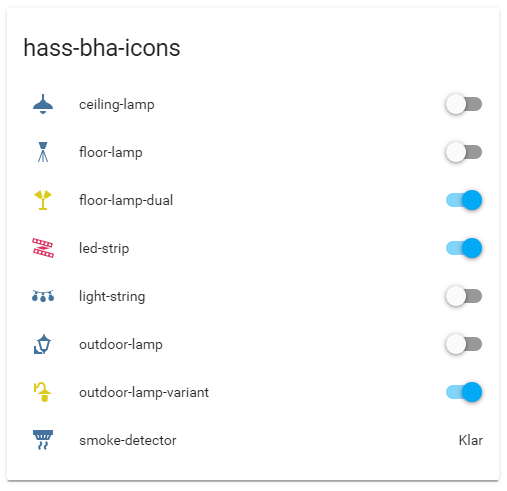
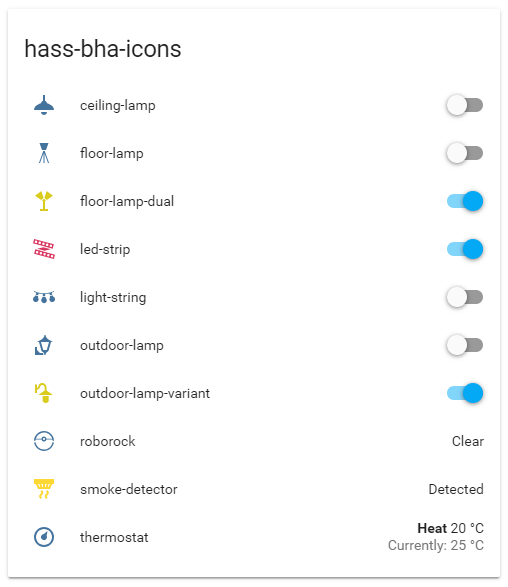
Minified svg's and added roborock and thermostat

diff --git a/hass-bha-icons.html b/hass-bha-icons.html
@@ -1,10 +1,12 @@
 <ha-iconset-svg name="bha" size="24"><svg><defs>
-<g id="ceiling-lamp"><path d="M 11 2 L 11 7.6738281 A 3 3 0 0 0 10.5 7.9023438 A 3 3 0 0 0 9.0097656 10.326172 A 10 6.9999995 0 0 0 7 10.9375 A 10 6.9999995 0 0 0 2 17 L 12 17 L 22 17 A 10 6.9999995 0 0 0 17 10.9375 A 10 6.9999995 0 0 0 14.992188 10.328125 A 3 3 0 0 0 13.5 7.9023438 A 3 3 0 0 0 13 7.6757812 L 13 2 L 11 2 z M 9 19 A 3 2.9999998 0 0 0 10.5 21.597656 A 3 2.9999998 0 0 0 13.5 21.597656 A 3 2.9999998 0 0 0 15 19 L 12 19 L 9 19 z " /></g>
-<g id="floor-lamp"><path d="M 7.5 2 L 10 9 L 14 9 L 16.5 2 L 7.5 2 z M 11.289062 10 L 6.9199219 22 L 7.984375 22 L 11.5 12.34375 L 11.5 22 L 12.5 22 L 12.5 12.349609 L 16.011719 22 L 17.076172 22 L 12.708984 10 L 11.289062 10 z " /></g>
-<g id="floor-lamp-dual"><path d="M 9.3867188 2 L 3 6.8125 L 9.2070312 10.898438 L 11.601562 9.09375 L 9.3867188 2 z M 14.613281 2 L 12.398438 9.0917969 L 14.792969 10.898438 L 21 6.8125 L 14.613281 2 z M 11.726562 10.054688 L 10.167969 11.244141 L 11 12.199219 L 11 20 L 8 20 L 8 22 L 16 22 L 16 20 L 13 20 L 13 12.300781 L 13.851562 11.261719 L 12.265625 10.064453 L 11.726562 10.054688 z " /></g>
-<g id="led-strip"><path d="M 2.157588,2 0.99999996,6.3457031 20.690651,11.652344 21.848239,7.3046875 Z M 3.9677761,3.5703125 A 1.2430476,1.25 0 0 1 4.3018452,3.6132815 1.2430476,1.25 0 0 1 5.1797475,5.1425784 1.2430476,1.25 0 0 1 3.6570142,6.0273441 1.2430476,1.25 0 0 1 2.7791118,4.4960941 1.2430476,1.25 0 0 1 3.9677761,3.5703125 Z M 7.6910922,4.5722656 A 1.2430476,1.25 0 0 1 8.023219,4.6152346 1.2430476,1.25 0 0 1 8.9030636,6.1464846 1.2430476,1.25 0 0 1 7.3803303,7.0292971 1.2430476,1.25 0 0 1 6.5004856,5.5 1.2430476,1.25 0 0 1 7.6910922,4.5722656 Z m 3.7213738,1.0039063 a 1.2430476,1.25 0 0 1 0.332126,0.042969 1.2430476,1.25 0 0 1 0.879845,1.5292969 1.2430476,1.25 0 0 1 -1.522733,0.8847656 1.2430476,1.25 0 0 1 -0.877903,-1.53125 1.2430476,1.25 0 0 1 1.188665,-0.9257815 z m 3.721373,1.0019531 a 1.2430476,1.25 0 0 1 0.33407,0.042969 1.2430476,1.25 0 0 1 0.877902,1.53125 A 1.2430476,1.25 0 0 1 14.82502,9.0351562 1.2430476,1.25 0 0 1 13.945176,7.5058594 1.2430476,1.25 0 0 1 15.133839,6.578125 Z m 3.723317,1.0039062 A 1.2430476,1.25 0 0 1 19.189282,7.625 1.2430476,1.25 0 0 1 20.069127,9.1542969 1.2430476,1.25 0 0 1 18.546394,10.039062 1.2430476,1.25 0 0 1 17.666549,8.5078125 1.2430476,1.25 0 0 1 18.857156,7.5820312 Z m -7.460228,2.5664068 -6.2404876,1.697265 7.4446896,2.005859 6.24243,-1.697265 z M 3.3093493,12.347656 2.1517613,16.693359 21.842412,22 23,17.654297 Z m 1.8101882,1.570313 a 1.2430476,1.25 0 0 1 0.3340689,0.04297 1.2430476,1.25 0 0 1 0.8779025,1.53125 A 1.2430476,1.25 0 0 1 4.8107178,16.375 1.2430476,1.25 0 0 1 3.9308731,14.84375 1.2430476,1.25 0 0 1 5.1195375,13.917969 Z m 3.7233161,1.003906 a 1.2430476,1.25 0 0 1 0.3321268,0.04102 1.2430476,1.25 0 0 1 0.8798436,1.53125 A 1.2430476,1.25 0 0 1 8.5320917,17.37891 1.2430476,1.25 0 0 1 7.652247,15.84766 1.2430476,1.25 0 0 1 8.8428536,14.921879 Z m 3.7213734,1.001953 a 1.2430476,1.25 0 0 1 0.334069,0.04297 1.2430476,1.25 0 0 1 0.877903,1.53125 1.2430476,1.25 0 0 1 -1.522734,0.882812 1.2430476,1.25 0 0 1 -0.877903,-1.53125 1.2430476,1.25 0 0 1 1.188665,-0.925781 z m 3.723316,1.001953 a 1.2430476,1.25 0 0 1 0.332127,0.04297 1.2430476,1.25 0 0 1 0.879844,1.53125 1.2430476,1.25 0 0 1 -1.522733,0.884766 1.2430476,1.25 0 0 1 -0.879844,-1.53125 1.2430476,1.25 0 0 1 1.190606,-0.927735 z m 3.721374,1.003907 a 1.2430476,1.25 0 0 1 0.332126,0.04297 1.2430476,1.25 0 0 1 0.879845,1.53125 1.2430476,1.25 0 0 1 -1.522733,0.882813 1.2430476,1.25 0 0 1 -0.877902,-1.53125 1.2430476,1.25 0 0 1 1.188664,-0.925781 z" /></g>
-<g id="light-string"><path d="m 1.9999999,5.8465626 v 0.8 C 2.7578662,7.0304569 3.509178,7.4328657 4.2968753,7.7510937 L 3.7792968,9.6827347 6.0976561,10.303827 6.6054687,8.4073437 c 1.1775185,0.274942 2.545886,0.499024 4.1953123,0.570312 v 1.9746093 h 2.398438 V 8.9776557 c 1.649426,-0.07129 3.017794,-0.29537 4.195312,-0.570312 L 17.902344,10.303827 20.220703,9.6827347 19.703125,7.7510936 C 20.421108,7.475841 21.264842,7.0521575 22,6.6465626 v -0.7 c 0,0 -0.889349,0.4944689 -2.498047,1.109 -1.608698,0.614531 -4.07651,1.234 -7.501953,1.234 -3.4254429,0 -5.8932552,-0.619469 -7.5019532,-1.234 -1.608698,-0.6145311 -2.4980469,-1.209 -2.4980469,-1.209 z M 20.533203,10.440546 c -0.03561,-1.58e-4 -0.07108,0.0044 -0.105469,0.01367 l -2.318359,0.623047 c -0.212729,0.05704 -0.339326,0.275311 -0.283203,0.488283 l 0.234375,0.873047 c -0.56785,0.678076 -0.812802,1.609735 -0.566406,2.529297 0.399979,1.494136 1.935679,2.380924 3.429687,1.980468 1.494136,-0.399978 2.380925,-1.935679 1.980469,-3.429687 -0.246396,-0.91956 -0.923106,-1.604892 -1.753906,-1.908203 l -0.234375,-0.873047 c -0.04636,-0.173763 -0.20298,-0.295225 -0.382813,-0.296875 z m -17.0800781,0.002 c -0.1748985,0.0065 -0.3252388,0.126015 -0.3710938,0.294922 l -0.2324218,0.873047 c -0.83081,0.303306 -1.5075103,0.988641 -1.7539063,1.908203 -0.40045573,1.494008 0.4863327,3.029709 1.9804688,3.429687 1.4933753,0.399208 3.0277278,-0.487306 3.4277343,-1.980468 0.246395,-0.919561 0.00338,-1.851222 -0.5644531,-2.529297 L 6.173828,11.565546 C 6.22995,11.352575 6.1033525,11.134303 5.8906249,11.077265 L 3.5722655,10.454218 c -0.038901,-0.0099 -0.079064,-0.01381 -0.1191406,-0.01172 z m 7.3476561,1.3105 c -0.221219,-2.16e-4 -0.400606,0.179172 -0.40039,0.400391 v 0.904297 c -0.7240004,0.508 -1.2011723,1.342921 -1.2011723,2.294921 -4.321e-4,1.547008 1.2537733,2.801214 2.8007813,2.800782 1.547008,4.32e-4 2.801213,-1.253774 2.800781,-2.800782 0,-0.952 -0.477172,-1.786921 -1.201172,-2.294921 v -0.904297 c 2.16e-4,-0.221219 -0.179171,-0.400607 -0.40039,-0.400391 z" /></g>
-<g id="outdoor-lamp"><path d="M 12.5,2 12,4 10,6.3046875 5,9 h 2 l 2.5,9 2.5,2 0.5,2 h 1 L 14,20 16.5,18 19,9 h 2 L 16,6.3046875 14,4 13.5,2 Z M 9,9 h 8 l -2.222656,8 h -3.554688 z m -6,5 v 8 h 8.5 L 11,20 H 8 L 5,17 v -3 z" /></g>
-<g id="outdoor-lamp-variant"><path d="M 3,3.5 V 12 H 5 V 8.7304688 C 5.5191446,8.5797659 6.1099058,8.3891115 6.4257812,8.2148438 7.0969155,7.8468698 7.46071,7.3740157 7.7832031,6.734375 7.8907005,6.5202028 7.9506444,6.3633648 8.0625,6.0097656 8.3428656,5.121456 8.5734017,4.6029303 9.0585938,4.2910156 9.4479096,4.0409087 9.7171975,3.9257813 10.347656,3.9257812 c 0.485193,0 0.695574,0.1063605 1.076172,0.3320313 0.781537,0.4628412 1.179515,1.2829292 1.275391,2.2402344 0.01988,0.7873898 0,2.1712518 0,3.0019531 L 6.3007812,14 H 21 L 14.570312,9.5 c 0.0054,-0.835877 0.02975,-2.573053 0,-3.3535156 -0.05084,-0.3535982 -0.149765,-0.6034751 -0.25,-0.9082032 C 13.788635,3.6168994 12.646767,2.39826 11.048828,2.0820312 10.713299,2.0159133 10.813414,2.0078125 10.339844,2.0078125 9.8314075,2.0092125 9.8490576,2.0240449 9.4335938,2.1074219 7.8095076,2.4351365 6.9140032,3.5301532 6.3242188,5.4160156 6.2138159,5.7696157 6.175259,5.8544504 6.0546875,6.03125 5.9573585,6.1721148 5.8558988,6.2815684 5.7324219,6.375 5.5255835,6.5318378 5.2811285,6.6799912 5,6.7929688 V 3.5 Z M 10.650391,15 c -6.56e-4,1.707062 -0.0057,3.417393 0.01367,5.123047 0.102987,0.926752 1.062063,1.656474 2.427735,1.849609 0.264179,0.03743 0.854959,0.03743 1.119141,0 1.085818,-0.154207 1.928946,-0.651271 2.271484,-1.333984 0.07836,-0.157204 0.133862,-0.339612 0.15625,-0.53125 0.02725,-1.700542 0.01172,-3.405638 0.01172,-5.107422 z" /></g>
-<g id="smoke-detector"><path d="M 2 2 L 2 7 L 3.8007812 7 L 6 12 L 18 12 L 20.199219 7 L 22 7 L 22 2 L 2 2 z M 6 7 L 7.3632812 7 L 8.1660156 10 L 7.4003906 10 L 6 7 z M 9.4335938 7 L 11 7 L 11 10 L 10.236328 10 L 9.4335938 7 z M 13 7 L 14.566406 7 L 13.763672 10 L 13 10 L 13 7 z M 16.636719 7 L 18 7 L 16.599609 10 L 15.833984 10 L 16.636719 7 z M 9.9121094 13.113281 L 8.4863281 14.515625 C 8.4863281 14.515625 8.7367896 14.774126 8.9589844 15.142578 C 9.1811792 15.51103 9.2732681 15.902246 9.2324219 16.054688 C 9.1584139 16.33089 8.9925215 16.473043 8.5761719 16.798828 C 8.1598223 17.124613 7.4798249 17.631364 7.2324219 18.554688 C 6.9623388 19.562649 7.3764611 20.403709 7.7265625 20.994141 C 8.0766639 21.584572 8.4707031 22 8.4707031 22 L 9.9257812 20.628906 C 9.9257812 20.628906 9.672235 20.354011 9.4472656 19.974609 C 9.2222963 19.595208 9.1338626 19.184973 9.1640625 19.072266 C 9.2259615 18.841255 9.3834476 18.705715 9.8085938 18.373047 C 10.23374 18.040379 10.913355 17.507919 11.164062 16.572266 C 11.435541 15.559092 11.027762 14.701473 10.671875 14.111328 C 10.315988 13.521183 9.9121094 13.113281 9.9121094 13.113281 z M 15.511719 13.113281 L 14.085938 14.515625 C 14.085938 14.515625 14.338352 14.774126 14.560547 15.142578 C 14.782742 15.51103 14.874831 15.902246 14.833984 16.054688 C 14.759974 16.33089 14.594084 16.473043 14.177734 16.798828 C 13.761385 17.124613 13.081387 17.631364 12.833984 18.554688 C 12.563901 19.562649 12.97607 20.403709 13.326172 20.994141 C 13.676273 21.584572 14.072266 22 14.072266 22 L 15.527344 20.628906 C 15.527344 20.628906 15.271844 20.354011 15.046875 19.974609 C 14.821906 19.595208 14.735425 19.184973 14.765625 19.072266 C 14.827525 18.841255 14.98501 18.705715 15.410156 18.373047 C 15.835302 18.040379 16.514917 17.507919 16.765625 16.572266 C 17.037104 15.559092 16.627371 14.701473 16.271484 14.111328 C 15.915598 13.521183 15.511719 13.113281 15.511719 13.113281 z " /></g>
+<g id="ceiling-lamp"><path d="m11 2v5.6738a3 3 0 0 0 -0.5 0.22852 3 3 0 0 0 -1.4902 2.4238 10 7 0 0 0 -2.0098 0.61133 10 7 0 0 0 -5 6.0625h20a10 7 0 0 0 -5 -6.0625 10 7 0 0 0 -2.0078 -0.60938 3 3 0 0 0 -1.4922 -2.4258 3 3 0 0 0 -0.5 -0.22656v-5.6758h-2zm-2 17a3 3 0 0 0 1.5 2.5977 3 3 0 0 0 3 0 3 3 0 0 0 1.5 -2.5977h-6z"/></g>
+<g id="floor-lamp"><path d="m7.5 2l2.5 7h4l2.5-7h-9zm3.7891 8l-4.3691 12h1.0645l3.5156-9.6562v9.6562h1v-9.6504l3.5117 9.6504h1.0645l-4.3672-12h-1.4199z"/></g>
+<g id="floor-lamp-dual"><path d="m9.3867 2l-6.3867 4.8125 6.207 4.0859 2.3945-1.8047-2.2148-7.0938zm5.2266 0l-2.2148 7.0918 2.3945 1.8066 6.207-4.0859-6.3867-4.8125zm-2.8867 8.0547l-1.5586 1.1895 0.83203 0.95508v7.8008h-3v2h8v-2h-3v-7.6992l0.85156-1.0391-1.5859-1.1973-0.53906-0.009765z"/></g>
+<g id="led-strip"><path d="m2.1576 2-1.1576 4.3457 19.691 5.3066 1.1576-4.3477zm1.8102 1.5703a1.243 1.25 0 0 1 0.33407 0.042969 1.243 1.25 0 0 1 0.8779 1.5293 1.243 1.25 0 0 1 -1.5227 0.88477 1.243 1.25 0 0 1 -0.8779 -1.5312 1.243 1.25 0 0 1 1.1887 -0.92578zm3.7233 1.002a1.243 1.25 0 0 1 0.33213 0.042969 1.243 1.25 0 0 1 0.87984 1.5312 1.243 1.25 0 0 1 -1.5227 0.88281 1.243 1.25 0 0 1 -0.87984 -1.5293 1.243 1.25 0 0 1 1.1906 -0.92773zm3.7214 1.0039a1.243 1.25 0 0 1 0.33213 0.042969 1.243 1.25 0 0 1 0.87984 1.5293 1.243 1.25 0 0 1 -1.5227 0.88477 1.243 1.25 0 0 1 -0.8779 -1.5312 1.243 1.25 0 0 1 1.1887 -0.92578zm3.7214 1.002a1.243 1.25 0 0 1 0.33407 0.042969 1.243 1.25 0 0 1 0.8779 1.5312 1.243 1.25 0 0 1 -1.5208 0.88281 1.243 1.25 0 0 1 -0.87984 -1.5293 1.243 1.25 0 0 1 1.1887 -0.92773zm3.7233 1.0039a1.243 1.25 0 0 1 0.33213 0.042969 1.243 1.25 0 0 1 0.87984 1.5293 1.243 1.25 0 0 1 -1.5227 0.88477 1.243 1.25 0 0 1 -0.87984 -1.5312 1.243 1.25 0 0 1 1.1906 -0.92578zm-7.4602 2.5664-6.2405 1.6973 7.4447 2.0059 6.2424-1.6973zm-8.0876 2.1992-1.1576 4.3457 19.691 5.3066 1.1576-4.3457zm1.8102 1.5703a1.243 1.25 0 0 1 0.33407 0.04297 1.243 1.25 0 0 1 0.8779 1.5312 1.243 1.25 0 0 1 -1.5208 0.88281 1.243 1.25 0 0 1 -0.87984 -1.5312 1.243 1.25 0 0 1 1.1887 -0.92578zm3.7233 1.0039a1.243 1.25 0 0 1 0.33213 0.04102 1.243 1.25 0 0 1 0.87984 1.5312 1.243 1.25 0 0 1 -1.5227 0.88476 1.243 1.25 0 0 1 -0.87984 -1.5312 1.243 1.25 0 0 1 1.1906 -0.92578zm3.7214 1.002a1.243 1.25 0 0 1 0.33407 0.04297 1.243 1.25 0 0 1 0.8779 1.5312 1.243 1.25 0 0 1 -1.5227 0.88281 1.243 1.25 0 0 1 -0.8779 -1.5312 1.243 1.25 0 0 1 1.1887 -0.92578zm3.7233 1.002a1.243 1.25 0 0 1 0.33213 0.04297 1.243 1.25 0 0 1 0.87984 1.5312 1.243 1.25 0 0 1 -1.5227 0.88477 1.243 1.25 0 0 1 -0.87984 -1.5312 1.243 1.25 0 0 1 1.1906 -0.92774zm3.7214 1.0039a1.243 1.25 0 0 1 0.33213 0.04297 1.243 1.25 0 0 1 0.87984 1.5312 1.243 1.25 0 0 1 -1.5227 0.88281 1.243 1.25 0 0 1 -0.8779 -1.5312 1.243 1.25 0 0 1 1.1887 -0.92578z"/></g>
+<g id="light-string"<path d="m2 5.8466v0.8c0.75787 0.38389 1.5092 0.7863 2.2969 1.1045l-0.51758 1.9316 2.3184 0.62109 0.50781-1.8965c1.1775 0.27494 2.5459 0.49902 4.1953 0.57031v1.9746h2.3984v-1.9746c1.6494-0.07129 3.0178-0.29537 4.1953-0.57031l0.50781 1.8965 2.3184-0.62109-0.51758-1.9316c0.71798-0.27525 1.5617-0.69894 2.2969-1.1045v-0.7s-0.88935 0.49447-2.498 1.109c-1.6087 0.61453-4.0765 1.234-7.502 1.234-3.4254 0-5.8933-0.61947-7.502-1.234-1.6087-0.61453-2.498-1.209-2.498-1.209zm18.533 4.594c-0.03561-1.58e-4 -0.07108 0.0044-0.10547 0.01367l-2.3184 0.62305c-0.21273 0.05704-0.33933 0.27531-0.2832 0.48828l0.23438 0.87305c-0.56785 0.67808-0.8128 1.6097-0.56641 2.5293 0.39998 1.4941 1.9357 2.3809 3.4297 1.9805 1.4941-0.39998 2.3809-1.9357 1.9805-3.4297-0.2464-0.91956-0.92311-1.6049-1.7539-1.9082l-0.23438-0.87305c-0.04636-0.17376-0.20298-0.29522-0.38281-0.29688zm-17.08 2e-3c-0.1749 0.0065-0.32524 0.12602-0.37109 0.29492l-0.23242 0.87305c-0.83081 0.30331-1.5075 0.98864-1.7539 1.9082-0.40046 1.494 0.48633 3.0297 1.9805 3.4297 1.4934 0.39921 3.0277-0.48731 3.4277-1.9805 0.2464-0.91956 0.00338-1.8512-0.56445-2.5293l0.23438-0.87309c0.056122-0.21297-0.070476-0.43124-0.2832-0.48828l-2.3184-0.62305c-0.038901-0.0099-0.079064-0.01381-0.11914-0.01172zm7.3477 1.3105c-0.22122-2.16e-4 -0.40061 0.17917-0.40039 0.40039v0.9043c-0.724 0.508-1.2012 1.3429-1.2012 2.2949-4.321e-4 1.547 1.2538 2.8012 2.8008 2.8008 1.547 4.32e-4 2.8012-1.2538 2.8008-2.8008 0-0.952-0.47717-1.7869-1.2012-2.2949v-0.9043c2.16e-4 -0.22122-0.17917-0.40061-0.40039-0.40039z"/></g>
+<g id="outdoor-lamp"><path d="m12.5 2-0.5 2-2 2.3047-5 2.6953h2l2.5 9 2.5 2 0.5 2h1l0.5-2 2.5-2 2.5-9h2l-5-2.6953-2-2.3047-0.5-2zm-3.5 7h8l-2.2227 8h-3.5547zm-6 5v8h8.5l-0.5-2h-3l-3-3v-3z"/></g>
+<g id="outdoor-lamp-variant"><path d="m3 3.5v8.5h2v-3.2695c0.51914-0.1507 1.1099-0.34136 1.4258-0.51562 0.67113-0.36797 1.0349-0.84083 1.3574-1.4805 0.1075-0.21417 0.16744-0.37101 0.2793-0.72461 0.28037-0.88831 0.5109-1.4068 0.99609-1.7188 0.38932-0.25011 0.6586-0.36523 1.2891-0.36523 0.48519 0 0.69557 0.10636 1.0762 0.33203 0.78154 0.46284 1.1795 1.2829 1.2754 2.2402 0.01988 0.78739 0 2.1713 0 3.002l-6.3984 4.5h14.699l-6.4297-4.5c0.0054-0.83588 0.02975-2.5731 0-3.3535-0.05084-0.3536-0.14976-0.60348-0.25-0.9082-0.53168-1.6214-1.6735-2.84-3.2715-3.1562-0.33553-0.066118-0.23541-0.074219-0.70898-0.074219-0.50844 0.0014-0.49079 0.016232-0.90625 0.099609-1.6241 0.32771-2.5196 1.4227-3.1094 3.3086-0.1104 0.3536-0.14896 0.43843-0.26953 0.61523-0.097329 0.14086-0.19879 0.25032-0.32227 0.34375-0.20684 0.15684-0.45129 0.30499-0.73242 0.41797v-3.293zm7.6504 11.5c-6.56e-4 1.7071-0.0057 3.4174 0.01367 5.123 0.10299 0.92675 1.0621 1.6565 2.4277 1.8496 0.26418 0.03743 0.85496 0.03743 1.1191 0 1.0858-0.15421 1.9289-0.65127 2.2715-1.334 0.07836-0.1572 0.13386-0.33961 0.15625-0.53125 0.02725-1.7005 0.01172-3.4056 0.01172-5.1074z"/></g>
+<g id="roborock"><path d="m12 2c-5.514 0-10 4.486-10 10 0 0.005258-8.2e-6 0.010368 0 0.015625l1.5195-0.4082c0.019141-0.42064 0.078608-0.83005 0.15625-1.2324h5.8613c0.184 1.1955 1.2191 2.125 2.4629 2.125s2.2789-0.92949 2.4629-2.125h5.8613c0.077641 0.40237 0.13711 0.81178 0.15625 1.2324l1.5195 0.4082c8e-6 -0.005257 0-0.010367 0-0.015625 0-5.514-4.486-10-10-10zm0 1.5c3.8763 0 7.1201 2.5845 8.1445 6.125h-5.6816c-0.184-1.1955-1.2191-2.125-2.4629-2.125s-2.2789 0.92949-2.4629 2.125h-5.6816c1.0245-3.5405 4.2682-6.125 8.1445-6.125zm0 5.5c0.56117 0 1 0.43883 1 1 0 0.56117-0.43883 1-1 1s-1-0.43883-1-1c0-0.56117 0.43883-1 1-1zm-8.416 4.1445l-1.4551 0.38867c0.74132 4.7872 4.8795 8.4668 9.8711 8.4668s9.1298-3.6796 9.8711-8.4668l-1.4551-0.38867c-0.55818 4.1584-4.1019 7.3555-8.416 7.3555-4.3141 0-7.8578-3.1971-8.416-7.3555z"/></g>
+<g id="smoke-detector"><path d="m2 2v5h1.8008l2.1992 5h12l2.1992-5h1.8008v-5h-20zm4 5h1.3633l0.80273 3h-0.76562l-1.4004-3zm3.4336 0h1.5664v3h-0.76367l-0.80273-3zm3.5664 0h1.5664l-0.80273 3h-0.76367v-3zm3.6367 0h1.3633l-1.4004 3h-0.76562l0.80274-3zm-6.7246 6.1133l-1.4258 1.4023s0.25046 0.2585 0.47266 0.62695 0.31428 0.75967 0.27344 0.91211c-0.074008 0.2762-0.2399 0.41836-0.65625 0.74414s-1.0963 0.83254-1.3438 1.7559c-0.27008 1.008 0.14404 1.849 0.49414 2.4395 0.3501 0.59043 0.74414 1.0059 0.74414 1.0059l1.4551-1.3711s-0.25355-0.2749-0.47852-0.6543c-0.22497-0.3794-0.3134-0.78964-0.2832-0.90234 0.061899-0.23101 0.21939-0.36655 0.64453-0.69922s1.1048-0.86513 1.3555-1.8008c0.27148-1.0132-0.1363-1.8708-0.49219-2.4609s-0.75977-0.99805-0.75977-0.99805zm5.5996 0l-1.4258 1.4023s0.25241 0.2585 0.47461 0.62695 0.31428 0.75967 0.27344 0.91211c-0.07401 0.2762-0.2399 0.41836-0.65625 0.74414-0.41635 0.32578-1.0963 0.83254-1.3438 1.7559-0.27008 1.008 0.14209 1.849 0.49219 2.4395 0.3501 0.59043 0.74609 1.0059 0.74609 1.0059l1.4551-1.3711s-0.2555-0.2749-0.48047-0.6543c-0.22497-0.3794-0.31145-0.78964-0.28125-0.90234 0.0619-0.23101 0.21938-0.36655 0.64453-0.69922s1.1048-0.86513 1.3555-1.8008c0.27148-1.0132-0.13825-1.8708-0.49414-2.4609-0.35589-0.59014-0.75976-0.99805-0.75976-0.99805z"/></g>
+<g id="thermostat"><path d="m12 2c-5.511 0-10 4.489-10 10 0 5.511 4.489 10 10 10 5.511 0 10-4.489 10-10 0-5.511-4.489-10-10-10zm0 2c4.4301 0 8 3.5699 8 8 0 4.4301-3.5699 8-8 8-4.4301 0-8-3.5699-8-8 0-4.4301 3.5699-8 8-8zm3.5 1.9375l-3.6113 3.0664a3 3 30 0 0 -2.4863 1.4961 3 3 30 0 0 1.0977 4.0977 3 3 30 0 0 4.0977 -1.0977 3 3 30 0 0 0.050782 -2.9004l0.85156-4.6621z"/></g>
 </defs></svg></ha-iconset-svg>
